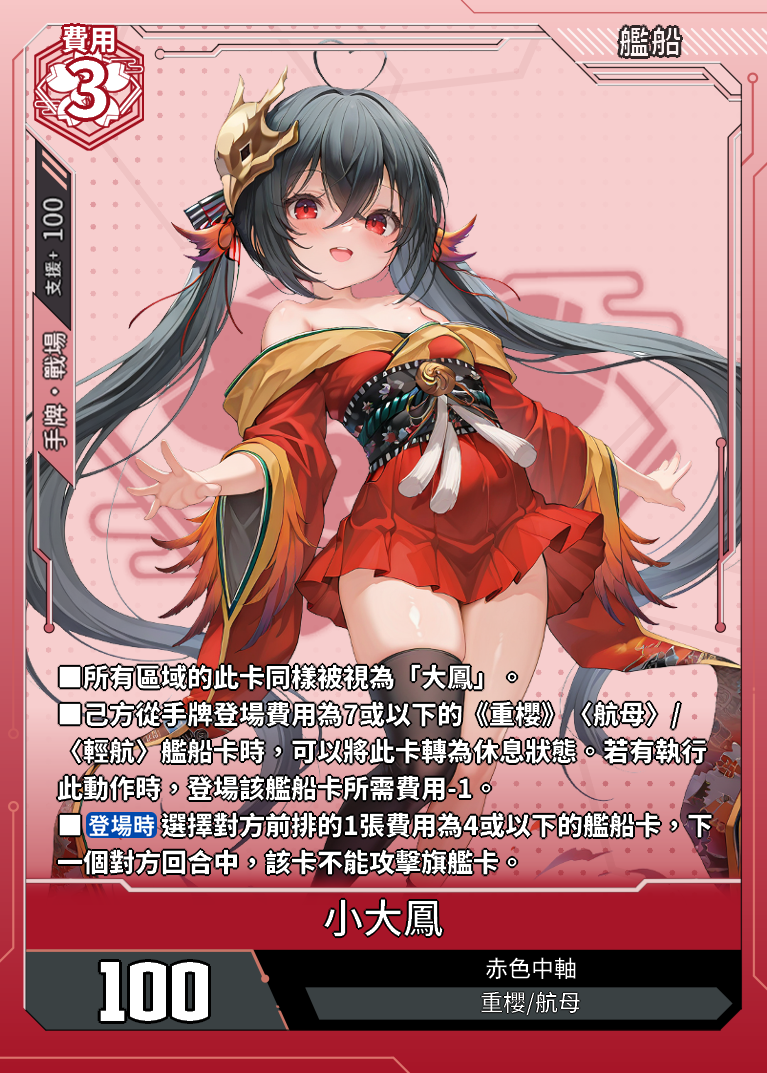
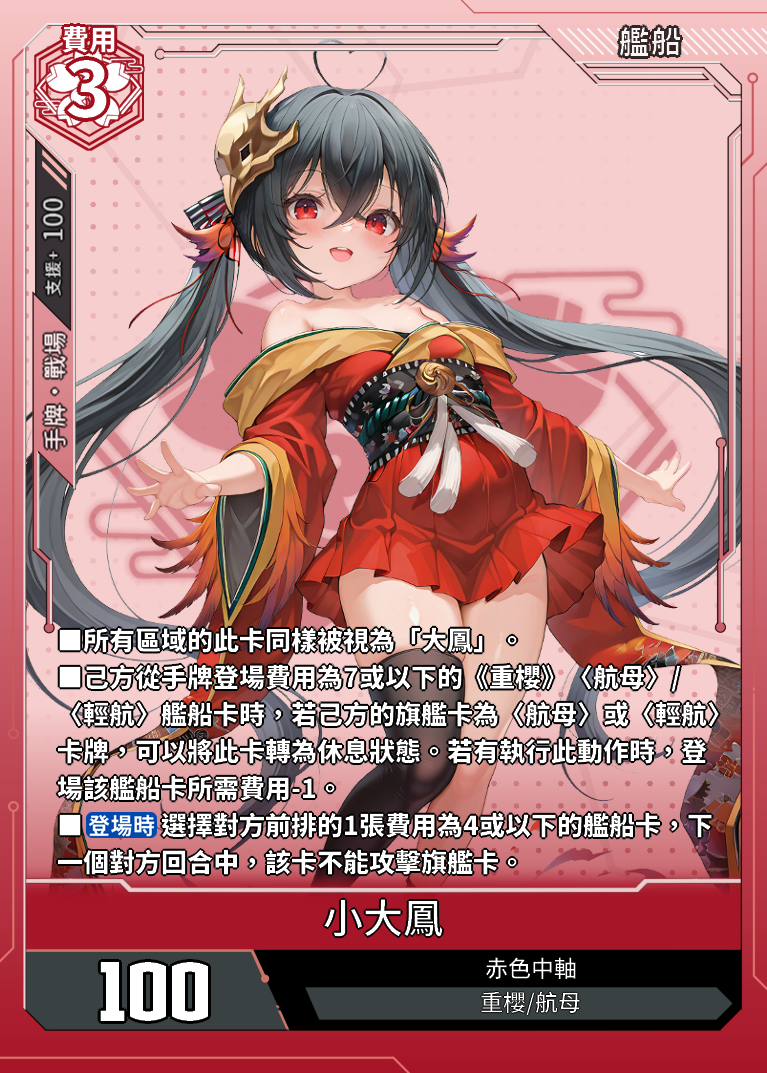
修小大鳳

Changed region(s): [[0.06, 0.5843, 0.9596, 0.7689]]

diff --git a/data.js b/data.js
@@ -24013,7 +24013,7 @@ const cards = [
             "支援範圍": "手牌·戰場",
             "支援值": "100"
         },
-        "card_effect": "■所有區域的此卡同樣被視為「大鳳」。■己方從手牌登場費用為7或以下的《重櫻》〈航母〉/〈輕航〉艦船卡時，可以將此卡轉為休息狀態。若有執行此動作時，登場該艦船卡所需費用-1。■【登場時】選擇對方前排的1張費用為4或以下的艦船卡，下一個對方回合中，該卡不能攻擊旗艦卡。",
+        "card_effect": "■所有區域的此卡同樣被視為「大鳳」。■己方從手牌登場費用為7或以下的《重櫻》〈航母〉/〈輕航〉艦船卡時，若己方的旗艦卡為〈航母〉或〈輕航〉卡牌，可以將此卡轉為休息狀態。若有執行此動作時，登場該艦船卡所需費用-1。■【登場時】選擇對方前排的1張費用為4或以下的艦船卡，下一個對方回合中，該卡不能攻擊旗艦卡。",
         "acquisition_method": "CE02-早期測試"
     },
 	{
@@ -24051,7 +24051,7 @@ const cards = [
             "支援範圍": "手牌",
             "支援值": "100"
         },
-        "card_effect": "■【主階段啟動】可以將己方正面的《重櫻》旗艦卡轉為反面。若有執行此動作時，接下來的本回合中，己方不能登場艦船卡，也不能發動艦船卡的【登場時】技能。■【己方回合結束時】當己方的旗艦耐久為2或以上時，將己方的旗艦卡轉為正面。",
+        "card_effect": "■【主階段啟動】可以將己方正面的《重櫻》〈航母〉旗艦卡轉為反面。若有執行此動作時，接下來的本回合中，己方不能登場艦船卡，也不能發動艦船卡的【登場時】技能。■【己方回合結束時】當己方的旗艦耐久為2或以上時，將己方的旗艦卡轉為正面。",
         "acquisition_method": "CE02-早期測試"
     },
 	{
